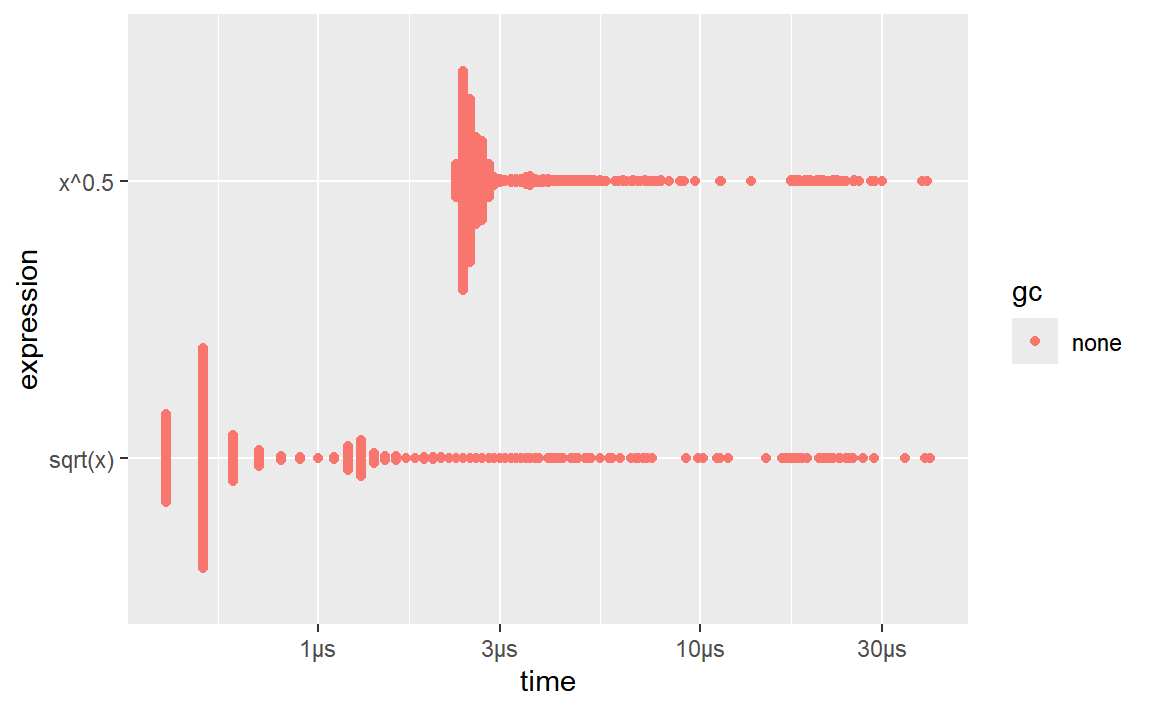
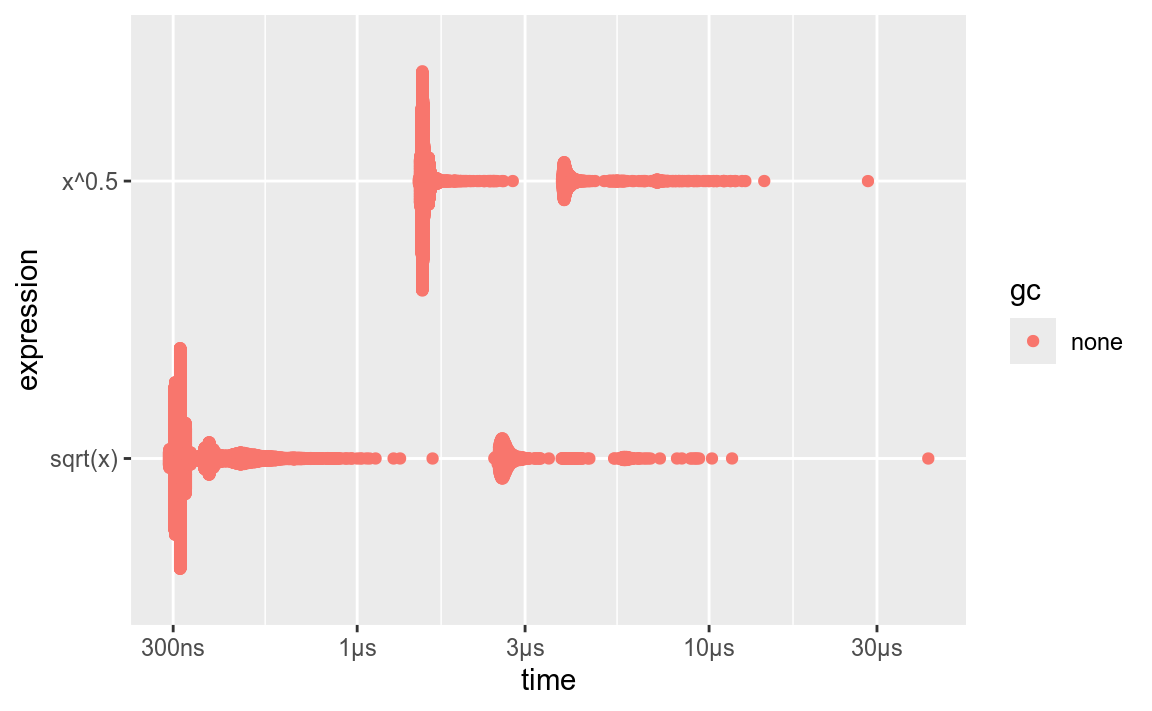
docs(Advanced R): 更新性能测量章节
- 移除了加载 bench 包时的错误提示
- 添加了微基准测试的示例结果
- 插入了对应的可视化图表
- 更新了相关代码片段

diff --git a/docs/Books/Advanced R(2e)/23 Measuring performance.html b/docs/Books/Advanced R(2e)/23 Measuring performance.html
@@ -450,8 +450,7 @@ Tip
 <p>使用“profvis”进行性能分析和微基准测试。</p>
 <div class="cell">
 <div class="sourceCode" id="cb1"><pre class="downlit sourceCode r code-with-copy"><code class="sourceCode R"><span><span class="kw"><a href="https://rdrr.io/r/base/library.html">library</a></span><span class="op">(</span><span class="va"><a href="https://profvis.r-lib.org">profvis</a></span><span class="op">)</span></span>
-<span><span class="kw"><a href="https://rdrr.io/r/base/library.html">library</a></span><span class="op">(</span><span class="va"><a href="https://bench.r-lib.org/">bench</a></span><span class="op">)</span></span>
-<span><span class="co">#&gt; Error in library(bench): there is no package called 'bench'</span></span></code><button title="Copy to Clipboard" class="code-copy-button"><i class="bi"></i></button></pre></div>
+<span><span class="kw"><a href="https://rdrr.io/r/base/library.html">library</a></span><span class="op">(</span><span class="va"><a href="https://bench.r-lib.org/">bench</a></span><span class="op">)</span></span></code><button title="Copy to Clipboard" class="code-copy-button"><i class="bi"></i></button></pre></div>
 </div>
 </section></section><section id="profiling" class="level2"><h2 class="anchored" data-anchor-id="profiling">Profiling</h2>
 <p>剖析器是所有编程语言中用来分析代码性能的主要工具。剖析器的种类繁多，R使用一种很简单称为采样（统计）剖析器的工具。它的工作原理是每个几毫秒停止程序执行，记录当前的调用栈，进而统计每个栈消耗的时间。例如下面的<code>f()</code>函数：</p>
@@ -485,10 +484,10 @@ Tip
 <span><span class="fu"><a href="https://rdrr.io/r/utils/Rprof.html">Rprof</a></span><span class="op">(</span><span class="cn">NULL</span><span class="op">)</span></span>
 <span><span class="fu"><a href="https://rdrr.io/r/base/writeLines.html">writeLines</a></span><span class="op">(</span><span class="fu"><a href="https://rdrr.io/r/base/readLines.html">readLines</a></span><span class="op">(</span><span class="va">tmp</span><span class="op">)</span><span class="op">)</span></span>
 <span><span class="co">#&gt; sample.interval=100000</span></span>
-<span><span class="co">#&gt; "pause" "f" "eval" "eval" "withVisible" "withCallingHandlers" "eval" "eval" "with_handlers" "doWithOneRestart" "withOneRestart" "withRestartList" "doWithOneRestart" "withOneRestart" "withRestartList" "withRestarts" "evaluate::evaluate" "evaluate" "in_dir" "in_input_dir" "eng_r" "block_exec" "call_block" "process_group" "withCallingHandlers" "xfun:::handle_error" "process_file" "knitr::knit" "rmarkdown::render" "execute" ".main" </span></span>
 <span><span class="co">#&gt; "pause" "g" "f" "eval" "eval" "withVisible" "withCallingHandlers" "eval" "eval" "with_handlers" "doWithOneRestart" "withOneRestart" "withRestartList" "doWithOneRestart" "withOneRestart" "withRestartList" "withRestarts" "evaluate::evaluate" "evaluate" "in_dir" "in_input_dir" "eng_r" "block_exec" "call_block" "process_group" "withCallingHandlers" "xfun:::handle_error" "process_file" "knitr::knit" "rmarkdown::render" "execute" ".main" </span></span>
 <span><span class="co">#&gt; "pause" "h" "g" "f" "eval" "eval" "withVisible" "withCallingHandlers" "eval" "eval" "with_handlers" "doWithOneRestart" "withOneRestart" "withRestartList" "doWithOneRestart" "withOneRestart" "withRestartList" "withRestarts" "evaluate::evaluate" "evaluate" "in_dir" "in_input_dir" "eng_r" "block_exec" "call_block" "process_group" "withCallingHandlers" "xfun:::handle_error" "process_file" "knitr::knit" "rmarkdown::render" "execute" ".main" </span></span>
-<span><span class="co">#&gt; "pause" "h" "f" "eval" "eval" "withVisible" "withCallingHandlers" "eval" "eval" "with_handlers" "doWithOneRestart" "withOneRestart" "withRestartList" "doWithOneRestart" "withOneRestart" "withRestartList" "withRestarts" "evaluate::evaluate" "evaluate" "in_dir" "in_input_dir" "eng_r" "block_exec" "call_block" "process_group" "withCallingHandlers" "xfun:::handle_error" "process_file" "knitr::knit" "rmarkdown::render" "execute" ".main"</span></span></code><button title="Copy to Clipboard" class="code-copy-button"><i class="bi"></i></button></pre></div>
+<span><span class="co">#&gt; "pause" "h" "f" "eval" "eval" "withVisible" "withCallingHandlers" "eval" "eval" "with_handlers" "doWithOneRestart" "withOneRestart" "withRestartList" "doWithOneRestart" "withOneRestart" "withRestartList" "withRestarts" "evaluate::evaluate" "evaluate" "in_dir" "in_input_dir" "eng_r" "block_exec" "call_block" "process_group" "withCallingHandlers" "xfun:::handle_error" "process_file" "knitr::knit" "rmarkdown::render" "execute" ".main" </span></span>
+<span><span class="co">#&gt; ".External" "dev.cur" "capture_plot" "watcher$capture_plot_and_output" "withCallingHandlers" "eval" "eval" "with_handlers" "doWithOneRestart" "withOneRestart" "withRestartList" "doWithOneRestart" "withOneRestart" "withRestartList" "withRestarts" "evaluate::evaluate" "evaluate" "in_dir" "in_input_dir" "eng_r" "block_exec" "call_block" "process_group" "withCallingHandlers" "xfun:::handle_error" "process_file" "knitr::knit" "rmarkdown::render" "execute" ".main"</span></span></code><button title="Copy to Clipboard" class="code-copy-button"><i class="bi"></i></button></pre></div>
 </div>
 <p>这是因为所有剖析器都必须在准确性和性能之间做出基本的权衡。使用采样剖析器时，这种权衡对性能的影响微乎其微，但本质上是随机的，因为计时器的准确性和每次操作所花费的时间都存在一定的变异性。这意味着每次进行性能分析时，你得到的答案都会略有不同。幸运的是，变异性影响对多的是那些运行时间很短的函数，而这些函数也是最不受关注的。</p>
 <section id="visualising-profiles" class="level3"><h3 class="anchored" data-anchor-id="visualising-profiles">Visualising profiles</h3>
@@ -539,22 +538,31 @@ Tip
 <p>“bench”包提供了很好的用来进行微基准测试的工具。“bench”包采用了更精准的计时器，能够尽可能地对比那些耗时极少的操作。例如，对比两种不同开方函数的性能：</p>
 <div class="cell">
 <div class="sourceCode" id="cb8"><pre class="downlit sourceCode r code-with-copy"><code class="sourceCode R"><span><span class="va">x</span> <span class="op">&lt;-</span> <span class="fu"><a href="https://rdrr.io/r/stats/Uniform.html">runif</a></span><span class="op">(</span><span class="fl">100</span><span class="op">)</span></span>
-<span><span class="op">(</span><span class="va">lb</span> <span class="op">&lt;-</span> <span class="fu">bench</span><span class="fu">::</span><span class="fu">mark</span><span class="op">(</span></span>
+<span><span class="op">(</span><span class="va">lb</span> <span class="op">&lt;-</span> <span class="fu">bench</span><span class="fu">::</span><span class="fu"><a href="https://bench.r-lib.org/reference/mark.html">mark</a></span><span class="op">(</span></span>
 <span>  <span class="fu"><a href="https://rdrr.io/r/base/MathFun.html">sqrt</a></span><span class="op">(</span><span class="va">x</span><span class="op">)</span>,</span>
 <span>  <span class="va">x</span><span class="op">^</span><span class="fl">0.5</span></span>
 <span><span class="op">)</span><span class="op">)</span></span>
-<span><span class="co">#&gt; Error in loadNamespace(x): there is no package called 'bench'</span></span></code><button title="Copy to Clipboard" class="code-copy-button"><i class="bi"></i></button></pre></div>
+<span><span class="co">#&gt; # A tibble: 2 × 6</span></span>
+<span><span class="co">#&gt;   expression      min   median `itr/sec` mem_alloc `gc/sec`</span></span>
+<span><span class="co">#&gt;   &lt;bch:expr&gt; &lt;bch:tm&gt; &lt;bch:tm&gt;     &lt;dbl&gt; &lt;bch:byt&gt;    &lt;dbl&gt;</span></span>
+<span><span class="co">#&gt; 1 sqrt(x)       292ns 315.02ns  1422117.      848B        0</span></span>
+<span><span class="co">#&gt; 2 x^0.5         1.5µs   1.54µs   464769.      848B        0</span></span></code><button title="Copy to Clipboard" class="code-copy-button"><i class="bi"></i></button></pre></div>
 </div>
-<p><code>bench::mark()</code>默认会将所有方法都至少运行一次（<code>min_iterations = 1</code>），并且最多花费0.5s（<code>min_time = 0.5</code>）。它会检查每次运行返回的值是否相同，如果你想测试返回不同值的速度，可以设置<code>check = FALSE</code>。</p>
+<p><code><a href="https://bench.r-lib.org/reference/mark.html">bench::mark()</a></code>默认会将所有方法都至少运行一次（<code>min_iterations = 1</code>），并且最多花费0.5s（<code>min_time = 0.5</code>）。它会检查每次运行返回的值是否相同，如果你想测试返回不同值的速度，可以设置<code>check = FALSE</code>。</p>
 <section id="benchmark-results" class="level3"><h3 class="anchored" data-anchor-id="benchmark-results">
 <code>bench::mark()</code> results</h3>
-<p><code>bench::mark()</code>会将结果返回为一个tibble，每行是一个表达式，每列是一个测量结果。</p>
+<p><code><a href="https://bench.r-lib.org/reference/mark.html">bench::mark()</a></code>会将结果返回为一个tibble，每行是一个表达式，每列是一个测量结果。</p>
 <ul>
 <li>
 <p><code>min</code>， <code>mean</code>，<code>median</code>，<code>max</code>，<code>itr/sec</code>估计出运行时间的分布。通常，关注运行时间的最小值和中值，因为运行时间往往右偏。例如上面的<code>lb</code>结果显示：<code><a href="https://rdrr.io/r/base/MathFun.html">sqrt()</a></code>方法要更优：</p>
 <div class="cell">
-<div class="sourceCode" id="cb9"><pre class="downlit sourceCode r code-with-copy"><code class="sourceCode R"><span><span class="fu"><a href="https://rdrr.io/r/graphics/plot.default.html">plot</a></span><span class="op">(</span><span class="va">lb</span><span class="op">)</span></span>
-<span><span class="co">#&gt; Error: object 'lb' not found</span></span></code><button title="Copy to Clipboard" class="code-copy-button"><i class="bi"></i></button></pre></div>
+<div class="sourceCode" id="cb9"><pre class="downlit sourceCode r code-with-copy"><code class="sourceCode R"><span><span class="fu"><a href="https://rdrr.io/r/graphics/plot.default.html">plot</a></span><span class="op">(</span><span class="va">lb</span><span class="op">)</span></span></code><button title="Copy to Clipboard" class="code-copy-button"><i class="bi"></i></button></pre></div>
+<div class="cell-output-display">
+<div>
+<figure class="figure"><p><img src="23-Measuring-performance_files/figure-html/unnamed-chunk-5-1.png" class="img-fluid figure-img" width="576"></p>
+</figure>
+</div>
+</div>
 </div>
 </li>
 <li><p><code>men_alloc</code>表示第一次运行时的内存占用。<code>n_gc()</code>表示垃圾回收的次数。</p></li>
@@ -564,7 +572,11 @@ Tip
 <p>因为结果是tibble格式，你可以使用<code>[</code>提取列：</p>
 <div class="cell">
 <div class="sourceCode" id="cb10"><pre class="downlit sourceCode r code-with-copy"><code class="sourceCode R"><span><span class="va">lb</span><span class="op">[</span><span class="fu"><a href="https://rdrr.io/r/base/c.html">c</a></span><span class="op">(</span><span class="st">"expression"</span>, <span class="st">"min"</span>, <span class="st">"median"</span>, <span class="st">"itr/sec"</span>, <span class="st">"n_gc"</span><span class="op">)</span><span class="op">]</span></span>
-<span><span class="co">#&gt; Error: object 'lb' not found</span></span></code><button title="Copy to Clipboard" class="code-copy-button"><i class="bi"></i></button></pre></div>
+<span><span class="co">#&gt; # A tibble: 2 × 4</span></span>
+<span><span class="co">#&gt;   expression      min   median `itr/sec`</span></span>
+<span><span class="co">#&gt;   &lt;bch:expr&gt; &lt;bch:tm&gt; &lt;bch:tm&gt;     &lt;dbl&gt;</span></span>
+<span><span class="co">#&gt; 1 sqrt(x)       292ns 315.02ns  1422117.</span></span>
+<span><span class="co">#&gt; 2 x^0.5         1.5µs   1.54µs   464769.</span></span></code><button title="Copy to Clipboard" class="code-copy-button"><i class="bi"></i></button></pre></div>
 </div>
 </section><section id="interpreting-results" class="level3"><h3 class="anchored" data-anchor-id="interpreting-results">Interpreting results</h3>
 <p>一定要注意基准测试结果中的单位。因为单位才是实际中我们关注的内容，例如上例中的结果，运行100次后总共的耗时也是毫秒级别，即使二者有显著差异，但实际体验中并不会造成影响。</p>
